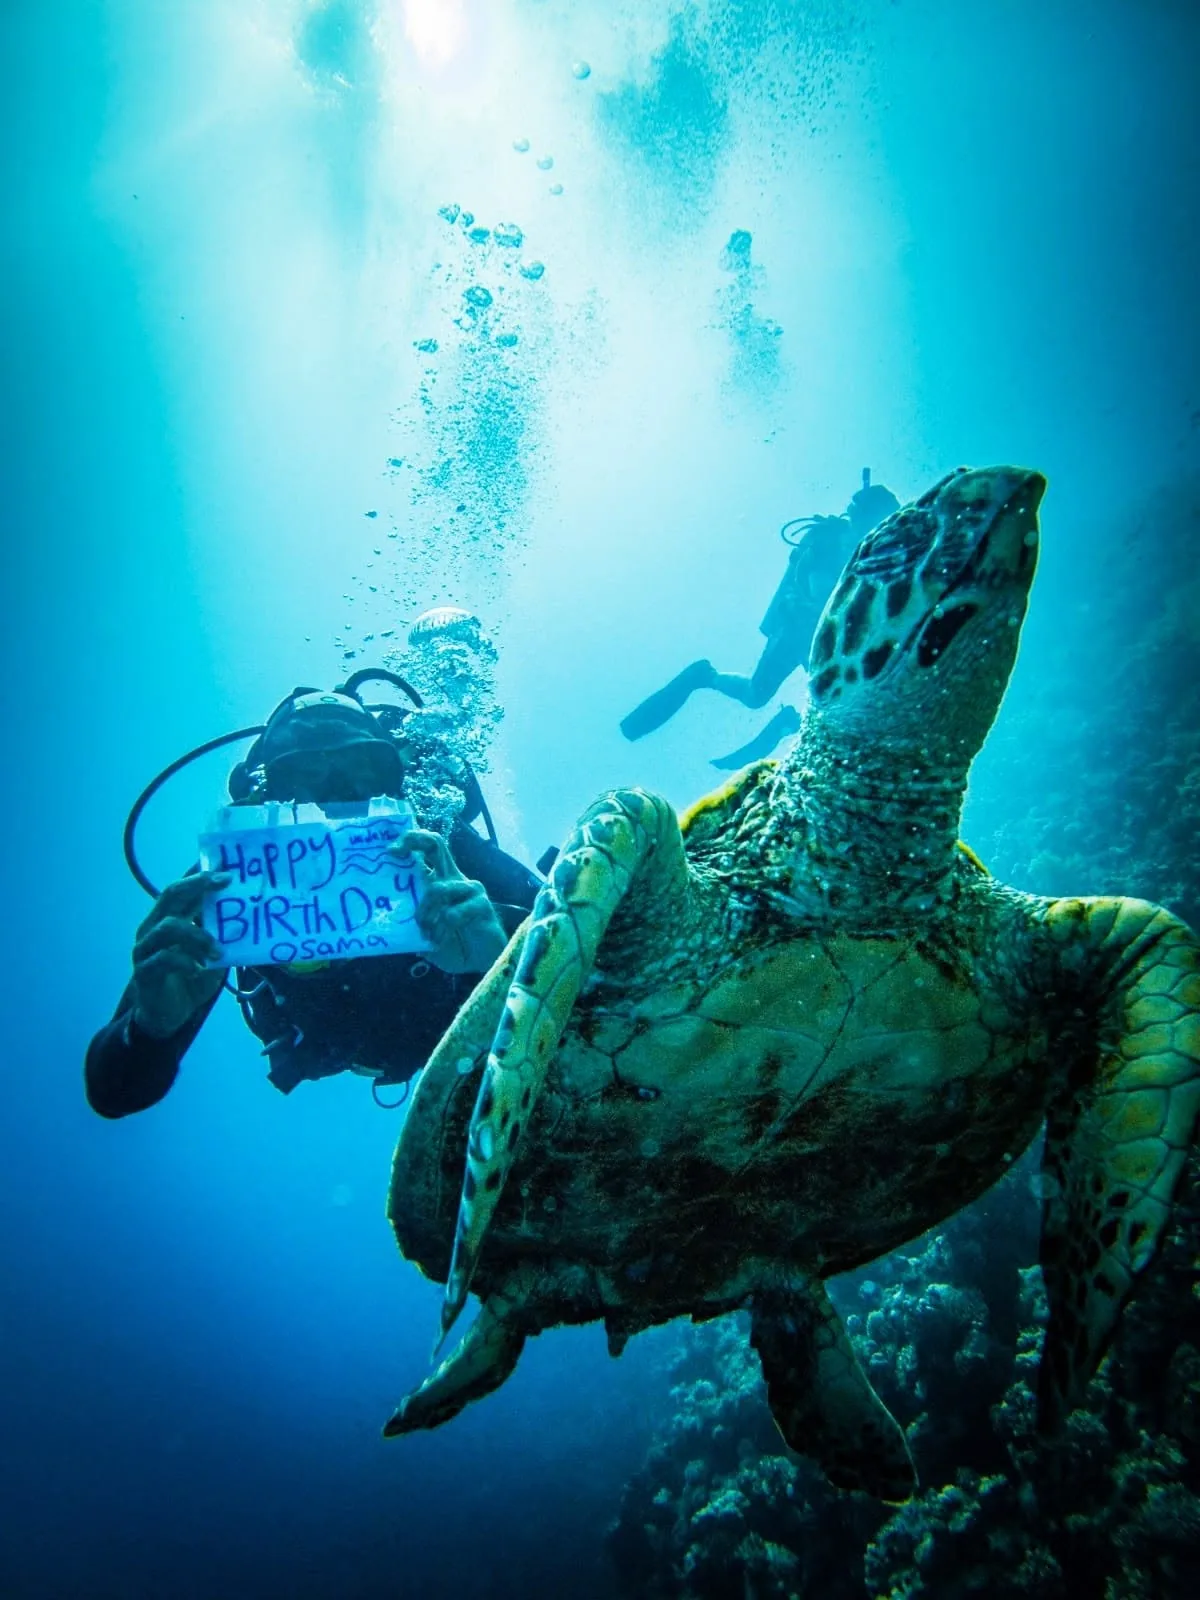
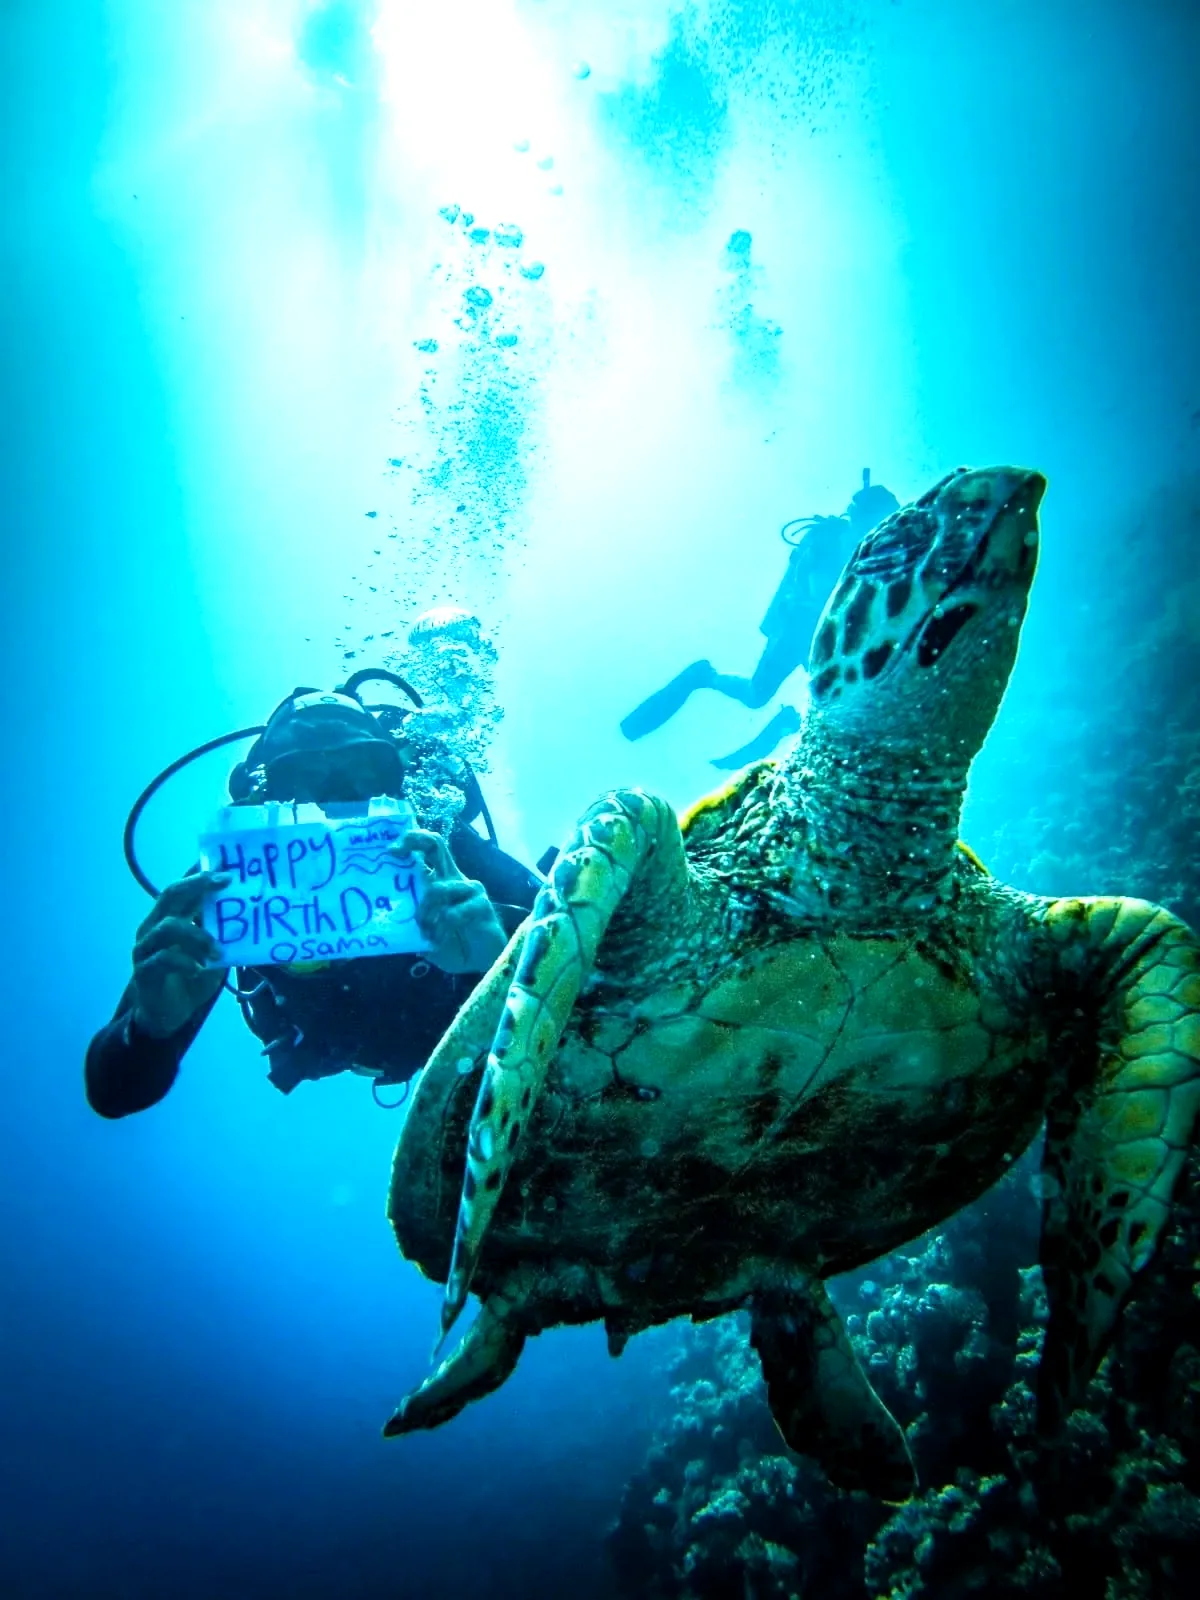
Found by search, and a phone that makes sense: titles per page, the journal on the server, swiped rails, a dock, and a hero that says who he is (#48)
Search. Every inner page carried the homepage's own title and description, so
to a search engine the site was one page repeated; each page now has its own,
written around what a diver in Dahab would type. The journal was rendered in the
browser, so a crawler received the posts nearly empty; the list and every story
are rendered on the server now, with static paths and their own metadata. The
hero says in words what he is, PADI Master Scuba Diver Trainer in Dahab, in the
heading and in the first line, and can be answered at once on WhatsApp.

The phone. The three rails no longer pan on the vertical wheel there: before the
engine mounts they become ordinary acts, the cards are swiped sideways with a
snap, the intro sits above them with a hint, and the depth ruler and the dive
computer follow the swipe. A dock at the bottom of the screen keeps Message
Osama and Reviews in reach on every page. The guide's ledger was being covered
by the next act sliding over the seam; the year numeral sat under the gauge;
both fixed. The three descent lines now say what he does at each depth, and the
turtle photograph is a stop brighter at the source.

diff --git a/src/app/page.tsx b/src/app/page.tsx
@@ -2,6 +2,7 @@
 import { archivo, plex } from "./fonts";
 import { WHATSAPP } from "@/lib/contact";
 import TailFoot from "./TailFoot";
+import MobileDock from "./MobileDock";
 import InstagramFeed from "@/components/InstagramFeed";
 import FeaturedReel from "@/components/FeaturedReel";
 import DescentBoot from "./DescentBoot";
@@ -88,8 +89,9 @@ export default async function Home() {
             <img className="brand-stage__photo" data-sc-parallax="-0.12" src="/images/osama-brand-hero.webp" srcSet="/images/osama-brand-hero-m.webp 800w, /images/osama-brand-hero.webp 1600w" sizes="100vw" alt="Osama teaching a diving student in the crystal-clear shallow water of Dahab, Egypt" />
             <div className="sc-scrim sc-scrim--lead" aria-hidden="true" />
             <div className="brand-copy" data-sc-in>
-              <h1>Osama.</h1>
-              <p className="sc-body">PADI Master Scuba Diver Trainer. Fourth family in Dahab, on this shore since 1983. In 2011 I took the family&apos;s hospitality underwater.</p>
+              <h1>Osama<span className="sr-only">, PADI Master Scuba Diver Trainer in Dahab, Egypt</span>.</h1>
+              <p className="sc-body">PADI Master Scuba Diver Trainer. Guided dives and courses from the shore in Dahab, South Sinai. Fourth family here, on this beach since 1983; in 2011 I took the family&apos;s hospitality underwater.</p>
+              <a className="cta brand-cta" href={WHATSAPP} target="_blank" rel="noopener noreferrer">Message Osama on WhatsApp</a>
               <div className="brand-ribbons">
                 <LogbookRibbon variant="hero" />
                 <InstagramRibbon variant="hero" />
@@ -244,16 +246,16 @@ export default async function Home() {
             <div className="sc-scrim sc-scrim--lead" aria-hidden="true" />
             <div className="depth-copy">
               <div className="depth-cue" data-sc-cue="0.02 0.3 0.08 0.06">
-                <span className="microcopy">7 metres · Om El Seed</span>
-                <h2><Words text="A turtle that does not hurry." at={0.02} /></h2>
+                <span className="microcopy">7 metres · Om El Seed · where he teaches</span>
+                <h2><Words text="His classroom. Every first breath starts here." at={0.02} /></h2>
               </div>
               <div className="depth-cue" data-sc-cue="0.36 0.64 0.06 0.06">
-                <span className="microcopy">8 metres · the edge of the Blue Hole</span>
-                <h2><Words text="The reef shelf, where the Blue Hole begins." at={0.36} /></h2>
+                <span className="microcopy">8 metres · the edge of the Blue Hole · where he guides</span>
+                <h2><Words text="A thousand descents here. He knows its every mood." at={0.36} /></h2>
               </div>
               <div className="depth-cue" data-sc-cue="0.7 1 0.06 0">
-                <span className="microcopy">12 metres · the blue</span>
-                <h2><Words text="Into the blue, within your training, every time." at={0.7} /></h2>
+                <span className="microcopy">12 metres · the blue · how he dives</span>
+                <h2><Words text="He guides. You dive within your training, every time." at={0.7} /></h2>
               </div>
             </div>
             <div className="depth-credit microcopy" data-sc-cue="0.05">Photographs by Osama, on ordinary working days</div>
@@ -606,6 +608,7 @@ export default async function Home() {
         <TailFoot />
       </div>
       <SideRail />
+      <MobileDock />
       <RailTravel />
       <RailFocus />
       <TapRipple />

diff --git a/src/app/blog/[slug]/page.tsx b/src/app/blog/[slug]/page.tsx
@@ -1,16 +1,13 @@
-"use client";
-
 import DescentShell from "@/app/DescentShell";
 import Image from "next/image";
 import BackToPlace from "@/components/BackToPlace";
 import Link from "next/link";
-import { useState, useEffect } from "react";
-import { useParams } from "next/navigation";
+import { notFound } from "next/navigation";
+import type { Metadata } from "next";
 import {
   getPostBySlug,
   getAllPosts,
   formatDate,
-  type BlogPost,
 } from "@/lib/blog-posts";
 import FloatingBadge from "@/components/FloatingBadge";
 
@@ -74,56 +71,29 @@ function renderContent(content: string) {
   return elements;
 }
 
-export default function BlogPostPage() {
-  const params = useParams();
-  const slug = params?.slug as string;
+export function generateStaticParams() {
+  return getAllPosts().map((p) => ({ slug: p.slug }));
+}
 
-  const [post, setPost] = useState<BlogPost | null>(null);
-  const [relatedPosts, setRelatedPosts] = useState<BlogPost[]>([]);
-  const [notFound, setNotFound] = useState(false);
+export function generateMetadata({ params }: { params: { slug: string } }): Metadata {
+  const post = getPostBySlug(params.slug);
+  if (!post) return { title: "Story not found | OsamaDives" };
+  const title = `${post.title} | Osama's diving journal, Dahab`;
+  return {
+    title,
+    description: post.excerpt,
+    alternates: { canonical: `https://www.osamadives.com/blog/${post.slug}` },
+    openGraph: { type: "article", title, description: post.excerpt, url: `https://www.osamadives.com/blog/${post.slug}`, publishedTime: post.date },
+  };
+}
 
-  useEffect(() => {
-    if (slug) {
-      const foundPost = getPostBySlug(slug);
-      if (foundPost) {
-        setPost(foundPost);
-        // Get related posts (other posts, excluding current)
-        const allPosts = getAllPosts();
-        setRelatedPosts(allPosts.filter((p) => p.slug !== slug).slice(0, 2));
-      } else {
-        setNotFound(true);
-      }
-    }
-  }, [slug]);
-
-  if (notFound) {
-    return (
-      <div className="min-h-screen bg-white flex items-center justify-center">
-        <div className="text-center px-4">
-          <h1 className="text-4xl font-bold text-gray-900 mb-4">
-            Story Not Found
-          </h1>
-          <p className="text-gray-600 mb-8">
-            This story may have drifted away with the current.
-          </p>
-          <Link
-            href="/blog"
-            className="inline-block bg-[#0a7d70] hover:bg-[#075f55] text-white font-bold py-3 px-6 rounded-full transition"
-          >
-            Back to Journal
-          </Link>
-        </div>
-      </div>
-    );
-  }
-
-  if (!post) {
-    return (
-      <div className="min-h-screen bg-white flex items-center justify-center">
-        <div className="animate-pulse text-gray-500">Loading...</div>
-      </div>
-    );
-  }
+// Rendered on the server: the whole story is in the page a search engine reads, not
+// loaded afterwards in the browser, which left it nearly empty to a crawler.
+export default function BlogPostPage({ params }: { params: { slug: string } }) {
+  const slug = params.slug;
+  const post = getPostBySlug(slug);
+  if (!post) notFound();
+  const relatedPosts = getAllPosts().filter((p) => p.slug !== slug).slice(0, 2);
 
   return (
     <DescentShell>

diff --git a/src/app/descent.css b/src/app/descent.css
@@ -1709,3 +1709,53 @@ html:not(.sc-ready) .w__i { transform: none; }
   .descent .coast-lead.lead-fixed .cta { padding: 0.6rem 1.1rem; font-size: 0.82rem; width: max-content; }
   .descent .rail-clip .coast-rail .station:first-child, .descent .rail-clip .coast-rail > :first-child { margin-left: 0; }
 }
+
+
+/* ----------------------------------------------------------- the phone -- */
+/* A hero that can be answered at once. */
+.descent .brand-cta { margin: 1.1rem 0 1.2rem; }
+
+/* The guide's ledger was being covered by the next act sliding up over the seam. */
+@media (max-width: 860px) {
+  .descent .guide-stage { padding-bottom: 24svh; }
+  /* the year numeral sat under the gauge */
+  .descent .peak-year { top: 13svh; font-size: clamp(4.4rem, 19vw, 6.6rem); }
+}
+
+/* Rails on a phone: ordinary acts, cards swiped sideways with a snap, the intro above
+   them with a hint, the ruler in the flow underneath. */
+@media (max-width: 860px) {
+  .descent .rail-swipe .rail-stage { height: auto; min-height: 0; position: static; display: grid; gap: 0.9rem; padding: 7.4rem 0 3rem; }
+  .descent .rail-swipe .rail-clip {
+    overflow-x: auto; overflow-y: hidden; -webkit-overflow-scrolling: touch;
+    scroll-snap-type: x mandatory; scroll-padding-inline: var(--sc-gutter);
+    scrollbar-width: none; mask-image: none; -webkit-mask-image: none;
+  }
+  .descent .rail-swipe .rail-clip::-webkit-scrollbar { display: none; }
+  .descent .rail-swipe .js-rail { transform: none !important; height: auto; }
+  .descent .rail-swipe .js-rail > * { scroll-snap-align: center; }
+  .descent .rail-swipe .coast-lead.lead-fixed::after {
+    content: "Swipe the cards sideways"; display: block; margin-top: 0.4rem;
+    font: 500 0.62rem/1 var(--mono); letter-spacing: 0.16em; text-transform: uppercase; color: var(--reef-glow, #3fd1be);
+  }
+  .descent .rail-swipe .depth-ruler { position: static; margin: 0.4rem var(--sc-gutter) 0; }
+  .descent .rail-swipe .coast-rail > * { opacity: 1; filter: none; }
+}
+
+/* The dock: two pills at the bottom of a phone screen, above the home bar. */
+.descent .dock { display: none; }
+@media (max-width: 860px) {
+  .descent .dock {
+    position: fixed; left: 50%; bottom: calc(0.9rem + env(safe-area-inset-bottom)); transform: translateX(-50%);
+    z-index: 57; display: flex; gap: 0.5rem; padding: 0.35rem; border-radius: 999px;
+    background: rgba(6, 20, 32, 0.78); border: 1px solid rgba(190, 240, 232, 0.28);
+    box-shadow: 0 14px 40px -16px rgba(0, 0, 0, 0.7), inset 0 1px 0 rgba(255, 255, 255, 0.28);
+    backdrop-filter: blur(14px) saturate(160%); -webkit-backdrop-filter: blur(14px) saturate(160%);
+  }
+  .descent .dock a {
+    display: inline-flex; align-items: center; min-height: 44px; padding: 0 1.1rem; border-radius: 999px;
+    font: 700 0.86rem/1 var(--sc-font-display); letter-spacing: 0.01em; text-decoration: none; white-space: nowrap;
+  }
+  .descent .dock__wa { background: var(--reef-glow, #3fd1be); color: #04121a; }
+  .descent .dock__more { color: #edf4f2; border: 1px solid rgba(237, 244, 242, 0.3); }
+}

diff --git a/src/app/gallery/layout.tsx b/src/app/gallery/layout.tsx
@@ -1,41 +1,11 @@
-import type { Metadata } from "next";
+import type { ReactNode } from "react";
 
-export const metadata: Metadata = {
-  title: "Photo Gallery | OsamaDives - Diving Adventures from Dahab, Egypt",
-  description:
-    "Explore Osama's diving adventures and stories from Dahab, Egypt. Photos from the Blue Hole, The Canyon, coral reefs, and underwater encounters in the Red Sea.",
-  keywords:
-    "Dahab diving photos, Blue Hole photos, Red Sea underwater photography, Dahab Egypt gallery, diving adventure photos, coral reef images",
-  openGraph: {
-    type: "website",
-    locale: "en_US",
-    url: "https://www.osamadives.com/gallery",
-    siteName: "OsamaDives",
-    title: "Photo Gallery | Diving Adventures from Dahab, Egypt",
-    description:
-      "Explore diving adventures and stories from Dahab, Egypt. Photos from the Blue Hole, The Canyon, and underwater encounters in the Red Sea.",
-    images: [
-      {
-        url: "/images/OsamaDives_The_Blue_Hole.jpeg",
-        width: 1200,
-        height: 630,
-        alt: "The Blue Hole - Famous Diving Site in Dahab, Egypt",
-      },
-    ],
-  },
-  twitter: {
-    card: "summary_large_image",
-    title: "Photo Gallery | OsamaDives",
-    description:
-      "Explore diving adventures from Dahab, Egypt - photos from the Blue Hole, The Canyon, and Red Sea encounters.",
-    images: ["/images/OsamaDives_The_Blue_Hole.jpeg"],
-  },
+export const metadata = {
+  title: "Dahab diving photos and stories | Osama's gallery",
+  description: "Forty years of photographs from Dahab: students, reefs, the family, the town, and Osama's dives, from the shore of the Red Sea.",
+  alternates: { canonical: "https://www.osamadives.com/gallery" },
 };
 
-export default function GalleryLayout({
-  children,
-}: {
-  children: React.ReactNode;
-}) {
-  return <>{children}</>;
+export default function GalleryLayout({ children }: { children: ReactNode }) {
+  return children;
 }

diff --git a/src/app/DescentBoot.tsx b/src/app/DescentBoot.tsx
@@ -92,6 +92,17 @@ export default function DescentBoot() {
     let stopHud: (() => void) | null = null;
     const boot = () => {
       if (cancelled || !window.ScrollCraft) return;
+      // On a phone a rail that pans on the vertical wheel is a puzzle: you cannot go
+      // back to a card, and the page stops moving while the cards do. There the three
+      // rails become ordinary acts and the cards are swiped sideways, natively.
+      if (matchMedia("(max-width: 860px)").matches) {
+        document.querySelectorAll<HTMLElement>("section:has(.js-rail)").forEach((sec) => {
+          sec.setAttribute("data-sc-act", "flow");
+          sec.removeAttribute("data-sc-span");
+          sec.style.removeProperty("--sc-span");
+          sec.classList.add("rail-swipe");
+        });
+      }
       window.ScrollCraft.mount(document.body);
       stopHud = startHud();
     };

diff --git a/src/app/RailFocus.tsx b/src/app/RailFocus.tsx
@@ -71,11 +71,12 @@ export default function RailFocus() {
     };
     const schedule = () => { if (!frame) frame = requestAnimationFrame(measure); };
     measure();
-    window.addEventListener("scroll", schedule, { passive: true });
+    // capture: a swiped rail scrolls itself, and that scroll never reaches window
+    document.addEventListener("scroll", schedule, { passive: true, capture: true });
     window.addEventListener("resize", schedule);
     const t = window.setTimeout(measure, 900); // after fonts and images settle
     return () => {
-      window.removeEventListener("scroll", schedule);
+      document.removeEventListener("scroll", schedule, { capture: true } as EventListenerOptions);
       window.removeEventListener("resize", schedule);
       if (frame) cancelAnimationFrame(frame);
       clearTimeout(t);

diff --git a/src/app/blog/page.tsx b/src/app/blog/page.tsx
@@ -1,11 +1,15 @@
-"use client";
-
 import DescentShell from "@/app/DescentShell";
 import Image from "next/image";
 import BackToPlace from "@/components/BackToPlace";
 import Link from "next/link";
 import { getAllPosts, formatDate } from "@/lib/blog-posts";
 import FloatingBadge from "@/components/FloatingBadge";
+
+export const metadata = {
+  title: "Diving journal from Dahab | Osama, PADI instructor",
+  description: "Stories from beneath the surface by Osama, a PADI Master Scuba Diver Trainer in Dahab: a thousand dives at the Blue Hole, why he teaches, what the night does to a reef.",
+  alternates: { canonical: "https://www.osamadives.com/blog" },
+};
 
 export default function BlogPage() {
   const posts = getAllPosts();

diff --git a/src/app/dive-sites/page.tsx b/src/app/dive-sites/page.tsx
@@ -4,6 +4,12 @@ import BackToPlace from "@/components/BackToPlace";
 import Link from "next/link";
 import { diveSites } from "@/lib/dive-sites";
 
+export const metadata = {
+  title: "Dive sites in Dahab, from the shore | Osama, PADI instructor",
+  description: "The Blue Hole, the Canyon, Lighthouse, Eel Garden and Three Pools, described by Osama, a PADI Master Scuba Diver Trainer who grew up on this shore: depths, routes, marine life, the best time to dive.",
+  alternates: { canonical: "https://www.osamadives.com/dive-sites" },
+};
+
 export default function DiveSitesPage() {
   return (
     <DescentShell>

diff --git a/src/app/MobileDock.tsx b/src/app/MobileDock.tsx
@@ -1,0 +1,13 @@
+import { WHATSAPP } from "@/lib/contact";
+
+// On a phone the two things a visitor wants are always in reach at the bottom of the
+// screen: a way to write to Osama, and the reviews. Hidden on a desk, where the top
+// bar and the coastline carry them.
+export default function MobileDock() {
+  return (
+    <nav className="dock" aria-label="Quick actions">
+      <a className="dock__wa" href={WHATSAPP} target="_blank" rel="noopener noreferrer">Message Osama</a>
+      <a className="dock__more" href="/review">Reviews</a>
+    </nav>
+  );
+}

diff --git a/src/app/DescentShell.tsx b/src/app/DescentShell.tsx
@@ -7,6 +7,7 @@ import TailFoot from "./TailFoot";
 import TapRipple from "./TapRipple";
 import BackToTop from "@/components/BackToTop";
 import SideRail from "./SideRail";
+import MobileDock from "./MobileDock";
 import "./descent.css";
 import "./inner.css";
 
@@ -27,6 +28,7 @@ export default function DescentShell({ children }: { children: ReactNode }) {
       </div>
       <div className="tail"><TailFoot /></div>
       <SideRail mode="site" />
+      <MobileDock />
       <BackToTop />
       <TapRipple />
     </div>

diff --git a/src/app/featured/chatgpt/page.tsx b/src/app/featured/chatgpt/page.tsx
@@ -74,6 +74,12 @@ const articleLd = {
   ],
 };
 
+export const metadata = {
+  title: "Featured by ChatGPT as the top freelance dive instructor in Dahab | Osama",
+  description: "In April 2026 ChatGPT recommended Osama as the number one freelance dive instructor in Dahab and cited osamadives.com as its top source. What was asked, and what it answered.",
+  alternates: { canonical: "https://www.osamadives.com/featured/chatgpt" },
+};
+
 export default function FeaturedChatgptPage() {
   return (
     <DescentShell>
